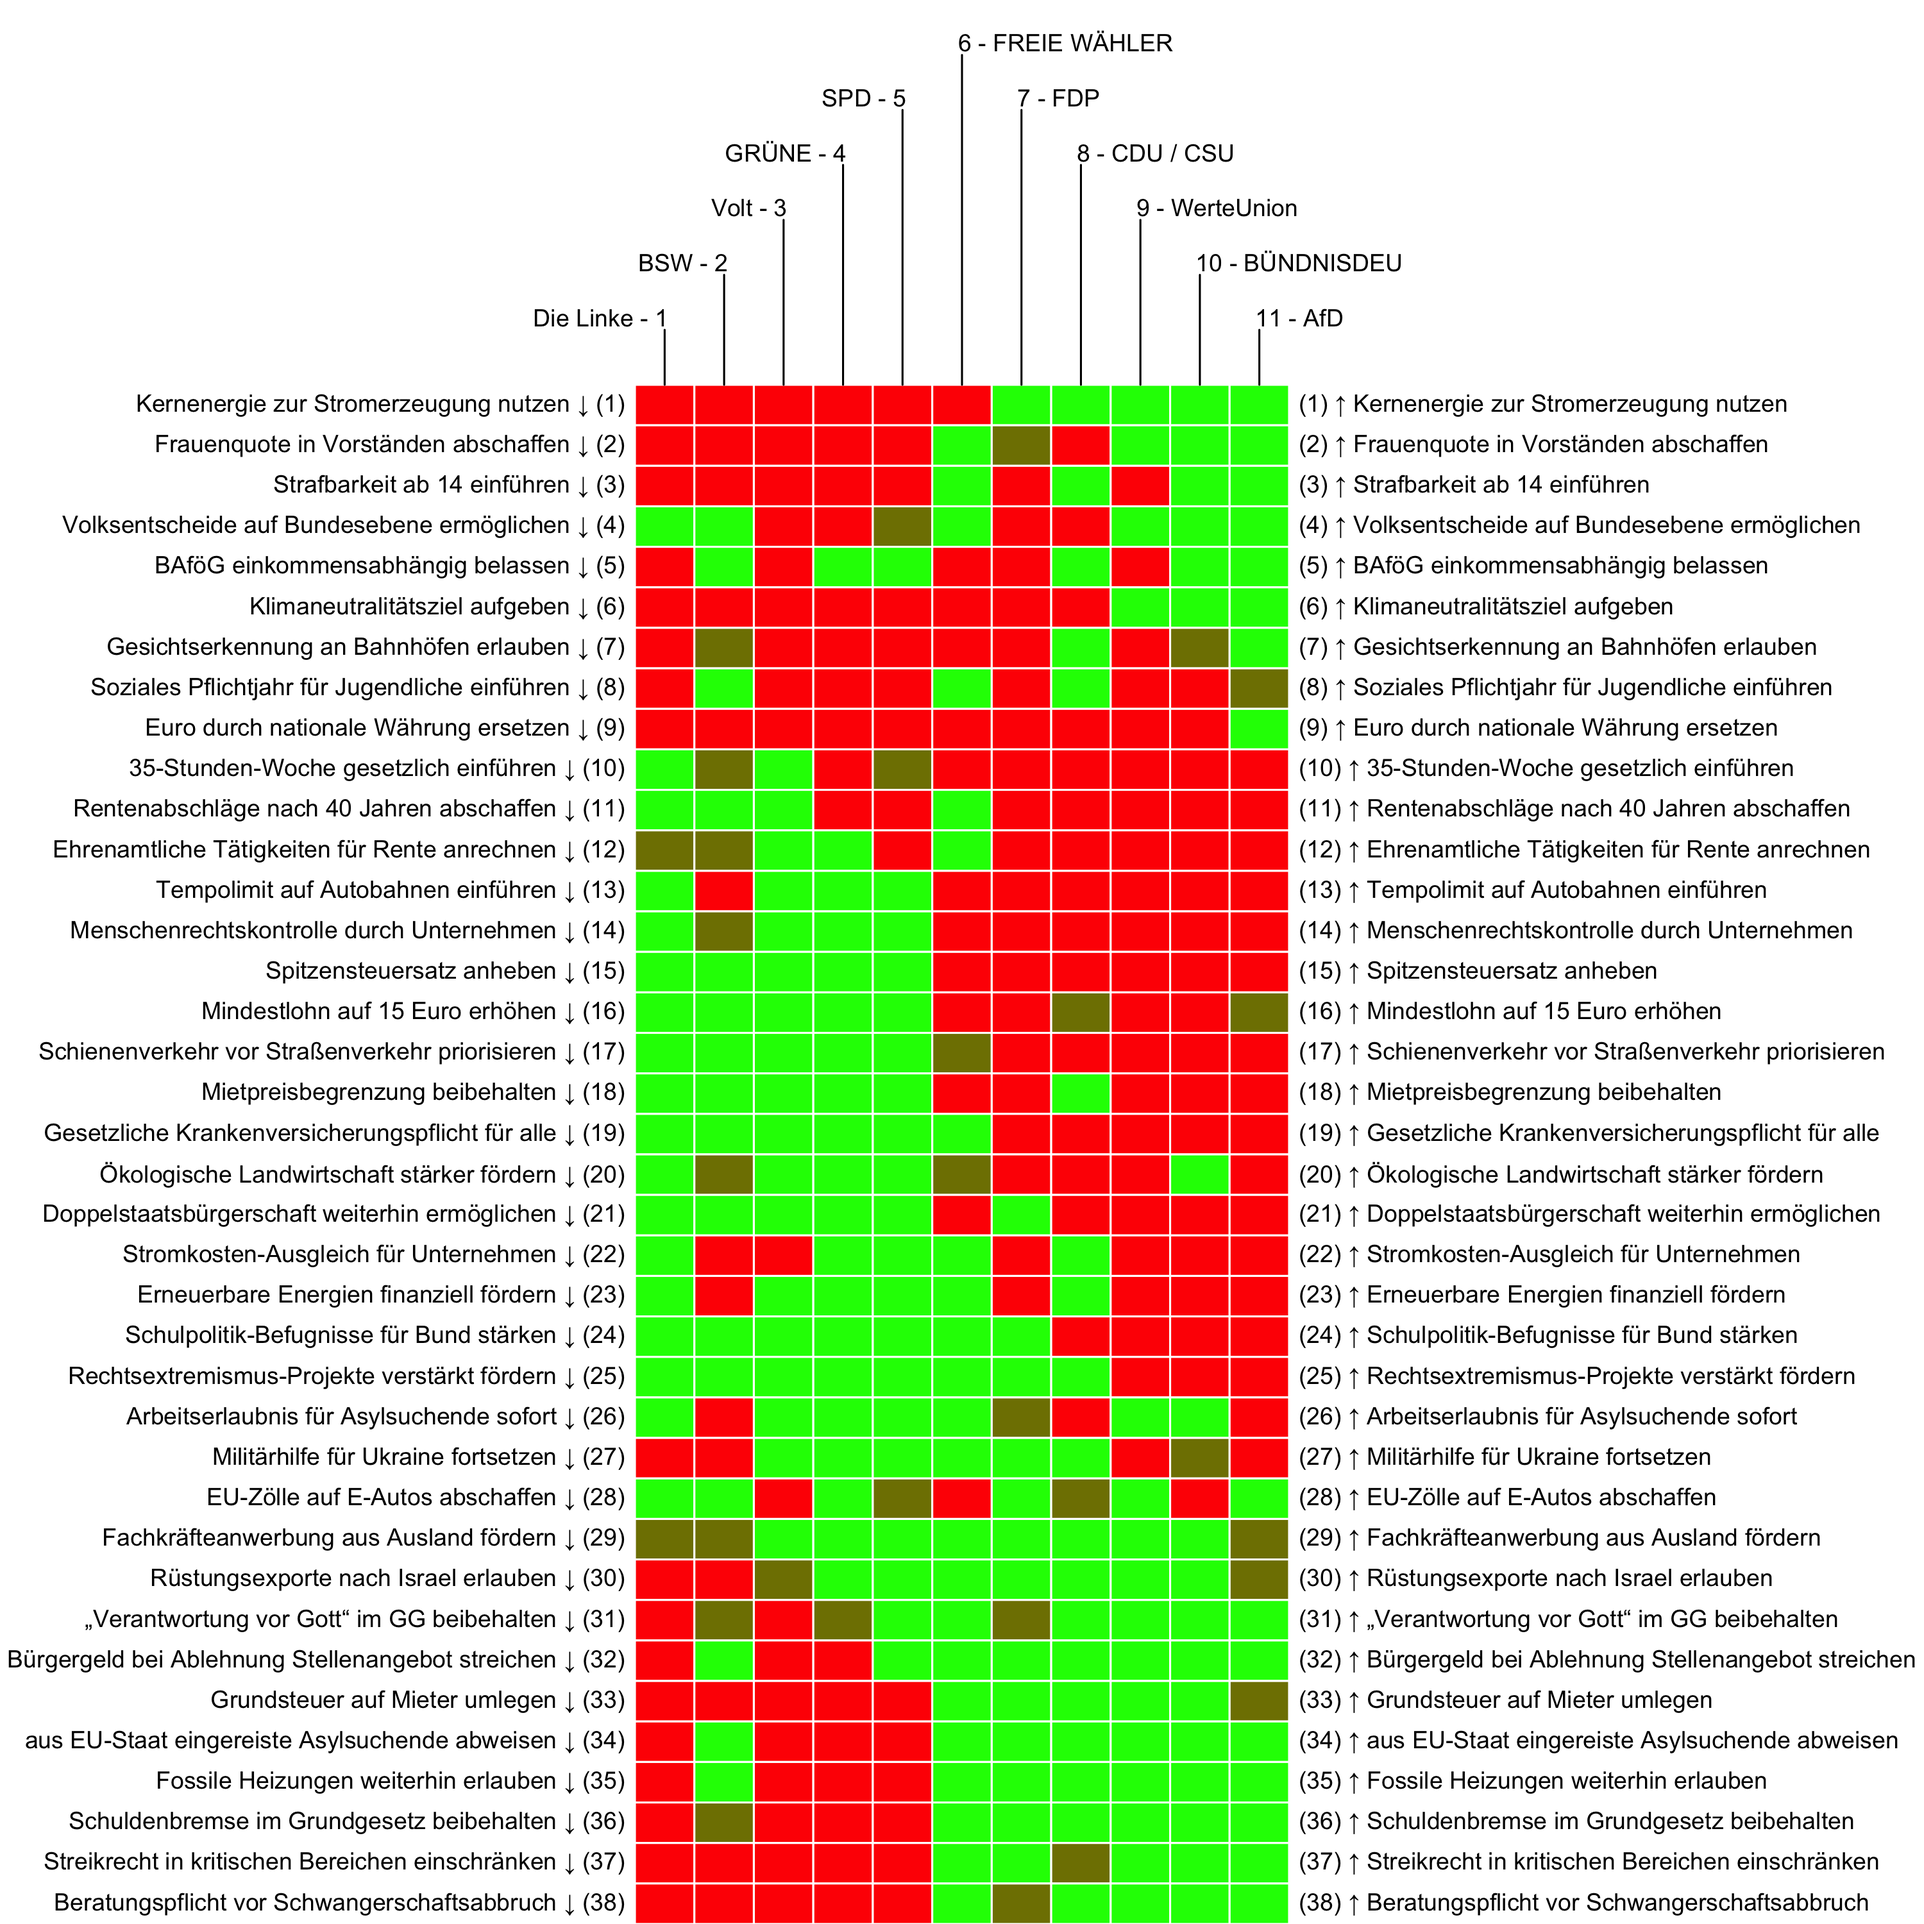
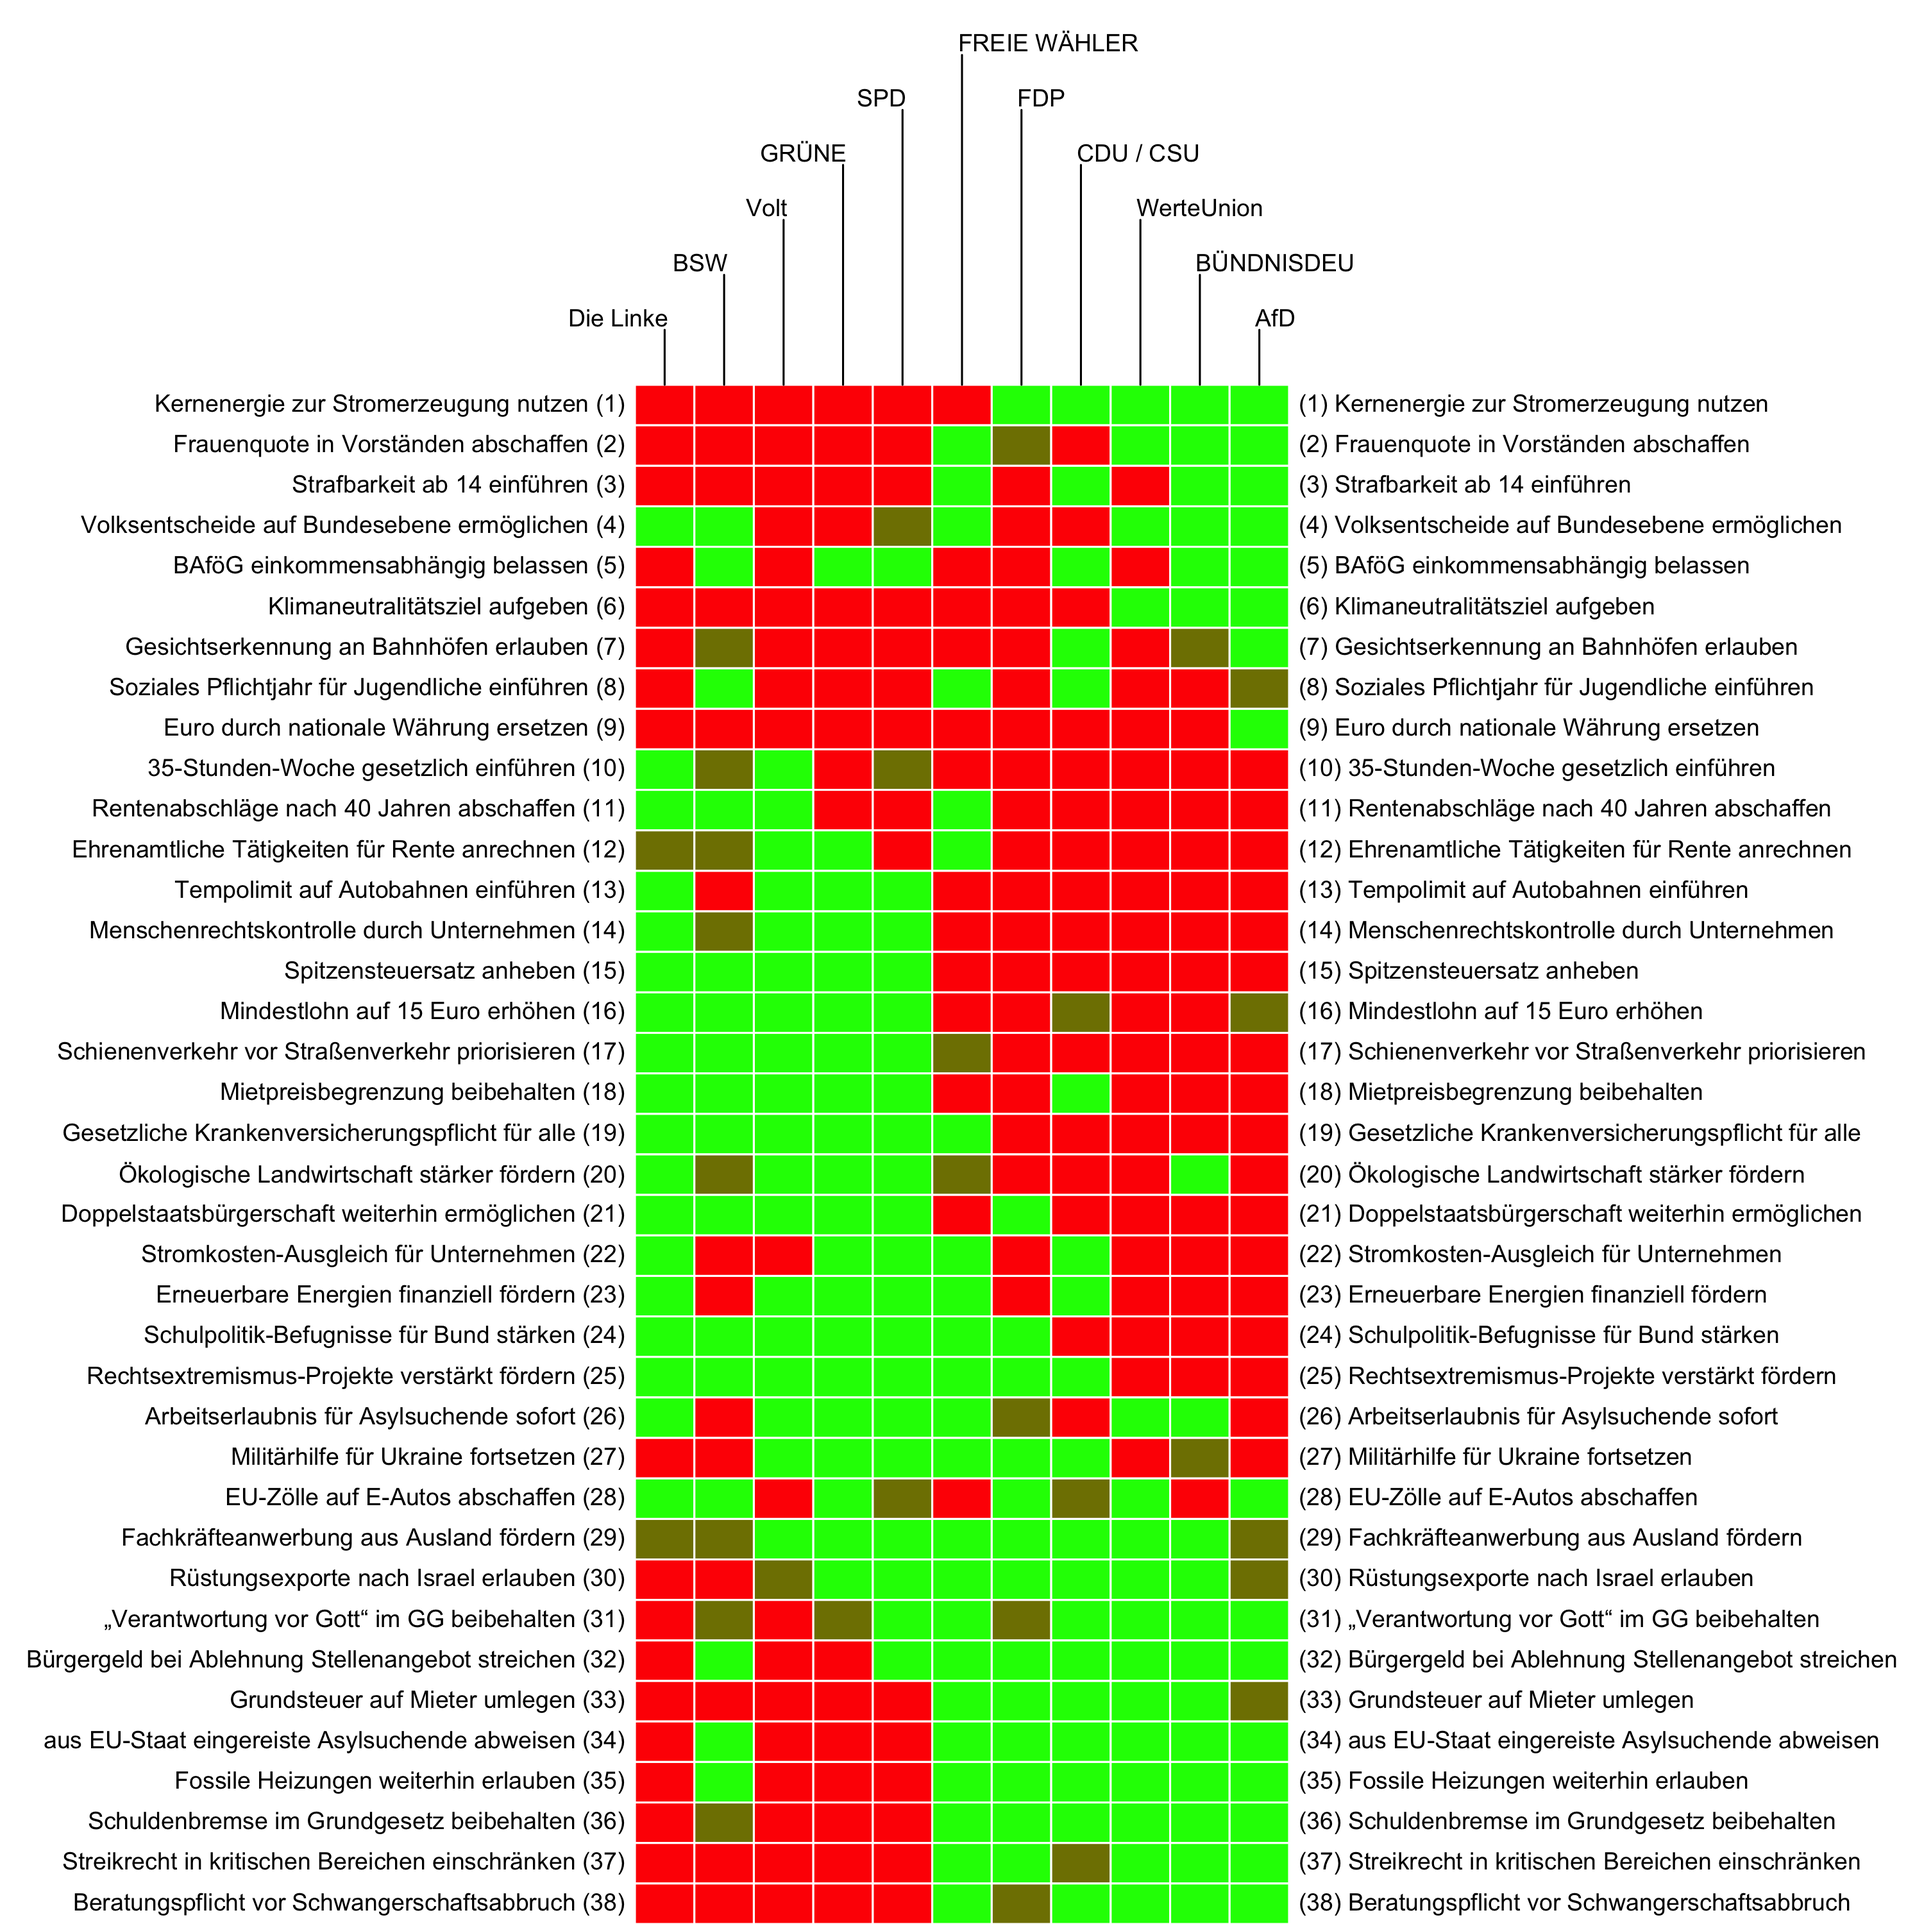
update from markheckmann.de

diff --git a/01_Bundestagswahl_2025/wahlomat_btw_2025.md b/01_Bundestagswahl_2025/wahlomat_btw_2025.md
@@ -28,9 +28,8 @@ insgesamt ähnlich geantwortet haben untereinander stehen.
   “Mindestlohn auf 15 Euro erhöhen”. Die ausführliche Formulierung der
   These finden Sie in der Tabelle weiter unten.
 - *Farben*:
-  - *Grün*: Die Partei unterstützt die These (Aufwärtspfeil, rechte
-    Seite).
-  - *Rot*: Die Partei lehnt die These ab (Abwärtspfeil, linke Seite).
+  - *Grün*: Die Partei unterstützt die These.
+  - *Rot*: Die Partei lehnt die These ab.
   - *Neutral* (dunkle Farbe): neutrale Position.
 
 <img src="wahlomat_btw_2025_files/figure-commonmark/img-heatmap-1.png"
@@ -52,19 +51,20 @@ haben. Weiterhin haben Parteien, die nah beieinander sind, tendenziell
 
 **Achsen (Thesen)**
 
-Die Achsen repräsentieren die politischen Thesen. Thesen weisen in eine
-ähnliche Richtung, wenn das Antwortmuster der Parteien auf diesen
-ähnlich ist. Wenn man das Lot von einem Punkt (Partei) auf eine Achse
-(These) fällt, kann man tendenziell ablesen, ob die Partei eher
-zustimmend oder ablehnend ist. Die Mitte (Ursprung des
+Die Achsen repräsentieren die politischen Thesen. Die Achse zeigt stets
+in Richtung *Zustimmung zur These*, was durch den kleinen Aufwärtspfeil
+vor der These angedeutet wird. Thesen mit einem ähnlichen Antwortmuster
+zeigen in eine ähnliche Richtung. Wenn man das Lot von einem Punkt
+(Partei) auf eine Achse (These) fällt, kann man tendenziell ablesen, ob
+die Partei eher zustimmend oder ablehnend ist. Die Mitte (Ursprung des
 Koordinatensystems) ist das neutrale Zentrum.
 
 *Beispiel*: Die AfD sowie CDU/CSU haben auf der Achse (These)
 “*Kernenergie zur Stromerzeugung nutzen*” einen hohen Wert, d.h. sie
 stimmen der These zu. SPD und Grüne haben auf der Achse einen niedrigen
 Wert, d.h. sie stimmen der These nicht zu. *Hinweis*: Bitte beachten
-Sie, dass die 2D-Darstellung, nicht alle Werte zu 100% genau
-repräsentiert.
+Sie, dass die 2D-Darstellung die Position der Parteien auf den
+Achsen/Thesen nicht 100% genau abbildet.
 
 ![](wahlomat_btw_2025_files/figure-commonmark/img-biplot-1.png)
 
